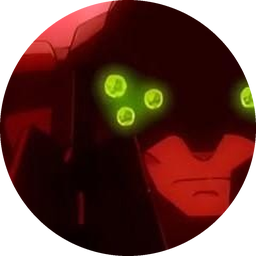
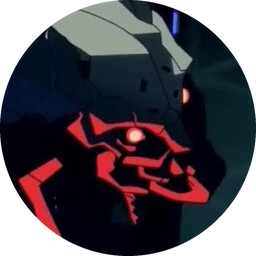
Night City: Adam Smasher sai dos prêmios, Adam Evo dispara Mísseis+Sandevistan sozinho com 15% de vida, novas artes do Adam Evo e da Agente Rubi
Claude-Session: https://claude.ai/code/session_01YbMgeu8KWE7gewsYBogdBN

diff --git a/js/eventos.js b/js/eventos.js
@@ -28,7 +28,7 @@ const Eventos = (() => {
     if (!d.festivalNino) d.festivalNino = { v: 0, l: 0, tentativas: 0, ativo: false };
     return d.festivalNino;
   }
-  const txtPremio = (p) => p.ouro ? `${p.ouro} 🪙` : p.gemas ? `${p.gemas} 💎` : p.bau ? `Baú de ${p.bau}` : p.carta ? 'NINO!' : '';
+  const txtPremio = (p) => p.ouro && p.gemas ? `${p.gemas} 💎 + ${p.ouro} 🪙` : p.ouro ? `${p.ouro} 🪙` : p.gemas ? `${p.gemas} 💎` : p.bau ? `Baú de ${p.bau}` : p.carta ? 'NINO!' : '';
 
   // ---------- montar o deck de cada modo ----------
   const embaralhar = (a) => { const b = [...a]; for (let i = b.length - 1; i > 0; i--) { const j = Math.floor(Math.random() * (i + 1)); [b[i], b[j]] = [b[j], b[i]]; } return b; };
@@ -238,7 +238,7 @@ const Eventos = (() => {
   const FAMILIA_SONIC = ['sonic', 'shadow', 'super_sonic', 'dark_sonic', 'sonic_excalibur', 'hyper_sonic'];
   const FIM_DESAFIOS = new Date(2026, 11, 14, 23, 59, 59); // 14/12/2026
   const FIM_CYBER = new Date(2027, 0, 15, 23, 59, 59); // 15/01/2027
-  const CYBER = ['roman_cyber', 'agente_rubi', 'lucy_kushinada', 'david_martinez', 'adam_smasher'];
+  const CYBER = ['roman_cyber', 'agente_rubi', 'lucy_kushinada', 'david_martinez'];
   const fimDe = (k) => (DESAFIOS[k] && DESAFIOS[k].fim) || FIM_DESAFIOS;
   const aberto = (k) => Date.now() < fimDe(k).getTime();
   const desafiosAbertos = () => Object.keys(DESAFIOS).some(aberto);
@@ -262,14 +262,14 @@ const Eventos = (() => {
     cyber: {
       nome: 'Noite em Night City', vidas: 3, preco: 20, fim: FIM_CYBER,
       falas: { roman_cyber: '"Tá gravando? Tá gravando! Eu vou junto, {n}."', agente_rubi: '"MaxTac. Fica atrás de mim, {n}."', lucy_kushinada: '"Eu sempre quis ir pra Lua... mas pode ser do seu lado, {n}."', david_martinez: '"Eu vou chegar no topo de Night City, {n}. Vem comigo."', adam_smasher: '"Carne fraca. Mas você venceu, {n}."' },
-      premios: [{ carta: 'roman_cyber' }, { carta: 'agente_rubi' }, { ouro: 600 }, { carta: 'lucy_kushinada' }, { carta: 'david_martinez' }, { carta: 'adam_smasher' }],
+      premios: [{ carta: 'roman_cyber' }, { carta: 'agente_rubi' }, { ouro: 600 }, { carta: 'lucy_kushinada' }, { carta: 'david_martinez' }, { gemas: 80, ouro: 1500 }],
       etapas: [
         { nome: 'Ruas de Night City', ic: '🌃', desc: 'Uma batalha normal pra aquecer. Prêmio: Roman.', cfg: { dif: 2 } },
         { nome: 'Sobrecarga', ic: '⚡', desc: 'Elixir 2x mais rápido. Prêmio: Agente Rubi.', cfg: { elixirMult: 2, dif: 3 } },
         { nome: 'Netrunner', ic: '💻', desc: 'Suas cartas ficam viradas pra baixo (você só vê o custo). Lembre do seu deck!', cfg: { cartasViradas: true, dif: 3 } },
         { nome: 'Sandevistan', ic: '⏩', desc: 'Todas as tropas andam e atacam muito mais rápido. Prêmio: Lucy.', cfg: { turbo: true, dif: 4 } },
         { nome: 'MaxTac', ic: '🚨', desc: '2 minutos e a primeira torre derrubada vence. Prêmio: David.', cfg: { subita: true, dif: 5 } },
-        { nome: 'Adam Smasher', ic: '🤖', desc: 'O chefe: a IA mais esperta, com o Adam Smasher no deck e cartas 2 níveis acima. Vença e o Adam é seu!', cfg: { dif: 6, cartaIA: 'adam_smasher', nivelIAMais: 2 } },
+        { nome: 'Adam Smasher', ic: '🤖', desc: 'O chefe: a IA mais esperta, com o Adam Smasher no deck e cartas 2 níveis acima. Derrote ele e leve 80 gemas + 1500 de ouro!', cfg: { dif: 6, cartaIA: 'adam_smasher', nivelIAMais: 2 } },
       ],
     },
     sonic: {
@@ -401,7 +401,7 @@ const Eventos = (() => {
     const faltam = CYBER.filter((id) => !Estado.tem(id)).length;
     const botao = `<button class="selo botao" data-desafio="cyber">${f.ativo ? `Jogar: ${prox.nome}` : f.tentativas ? `De novo · ${D.preco} 💎` : 'Começar (grátis)'}</button>`;
     return `<div class="desafio-caixa cyber"><div class="cyber-fundo">${CYBER.map((id) => `<img src="assets/cartas/${id}.jpg" alt="" />`).join('')}</div><div class="mc-conteudo">
-      <b>🌃 ${D.nome}</b><span>${faltam ? `${total} missões com regras diferentes. Cada personagem vem numa missão, e o <b>Adam Smasher</b> é o chefe final! · ${dias} dias` : 'Você já tem todo mundo de Night City! Jogue pelos prêmios.'}</span>
+      <b>🌃 ${D.nome}</b><span>${faltam ? `${total} missões com regras diferentes. Cada personagem vem numa missão, e no fim você enfrenta o <b>Adam Smasher</b> como chefe! · ${dias} dias` : 'Você já tem todo mundo de Night City! Jogue pelos prêmios.'}</span>
       <div class="fn-pips">${pips}</div><div class="fn-linha"><div class="fn-vidas">${vidas}</div>${botao}</div>
       <button class="fn-ver" data-ver-cyber="1">Ver os personagens</button></div></div>`;
   }

diff --git a/js/batalha.js b/js/batalha.js
@@ -714,6 +714,17 @@ const Batalha = (() => {
     if (e.postura && emEgo(e) && dano > 0) e.ego = Math.min(15, (e.ego || 0) + 1);
     e.vida -= dano;
     numero(e, dano, opc.crit ? 'critico' : opc.tipo);
+    // Adam Smasher (Evolução): com 15% de vida dispara sozinho Mísseis + Sandevistan, sem gastar elixir (uma vez)
+    if (!e.torre && e.vida > 0 && !e.protocoloAdam && e.carta && e.carta.id === 'adam_smasher_evo' && e.habilidade && e.vida <= e.max * 0.15) {
+      e.protocoloAdam = true;
+      agendar(0.05, () => {
+        if (e.vida <= 0 || !s || s.acabou) return;
+        falar(e, 'Protocolo de combate: ativado.', 'fala-cyber');
+        efeito(`ativou ${e.time}`, e.x, e.y, 700);
+        if (s.rede || s.aoVivo) s.eventos.push(['a', Math.round(e.x), Math.round(e.y), e.time === 'azul' ? 0 : 1]);
+        smasherTotal(e, e.habilidade);
+      });
+    }
     // Vegeta Ultra Ego: o ego não deixa ele cair (uma vez)
     if (e.vida <= 0 && !e.torre && !e.egoRevivido && e.atk && e.atk.m && e.atk.m.ultraEgo) {
       e.egoRevivido = true; e.egoDesperto = true;

diff --git a/index.html b/index.html
@@ -4,13 +4,13 @@
   <meta charset="UTF-8" />
   <meta name="viewport" content="width=device-width, initial-scale=1, maximum-scale=1, user-scalable=no" />
   <meta name="theme-color" content="#1d2350" />
-  <meta name="versao-pagina" content="1794529177" />
+  <meta name="versao-pagina" content="1794529529" />
   <meta http-equiv="Cache-Control" content="no-cache" />
   <title>Queens and Kings</title>
   <link rel="preconnect" href="https://fonts.googleapis.com" />
   <link rel="preconnect" href="https://fonts.gstatic.com" crossorigin />
   <link href="https://fonts.googleapis.com/css2?family=Cinzel+Decorative:wght@700;900&family=Great+Vibes&family=Fredoka:wght@400;500;600;700&family=Lilita+One&display=swap" rel="stylesheet" />
-  <link rel="stylesheet" href="css/style.css?v=1794529177" />
+  <link rel="stylesheet" href="css/style.css?v=1794529529" />
 </head>
 <body>
   <div id="app">
